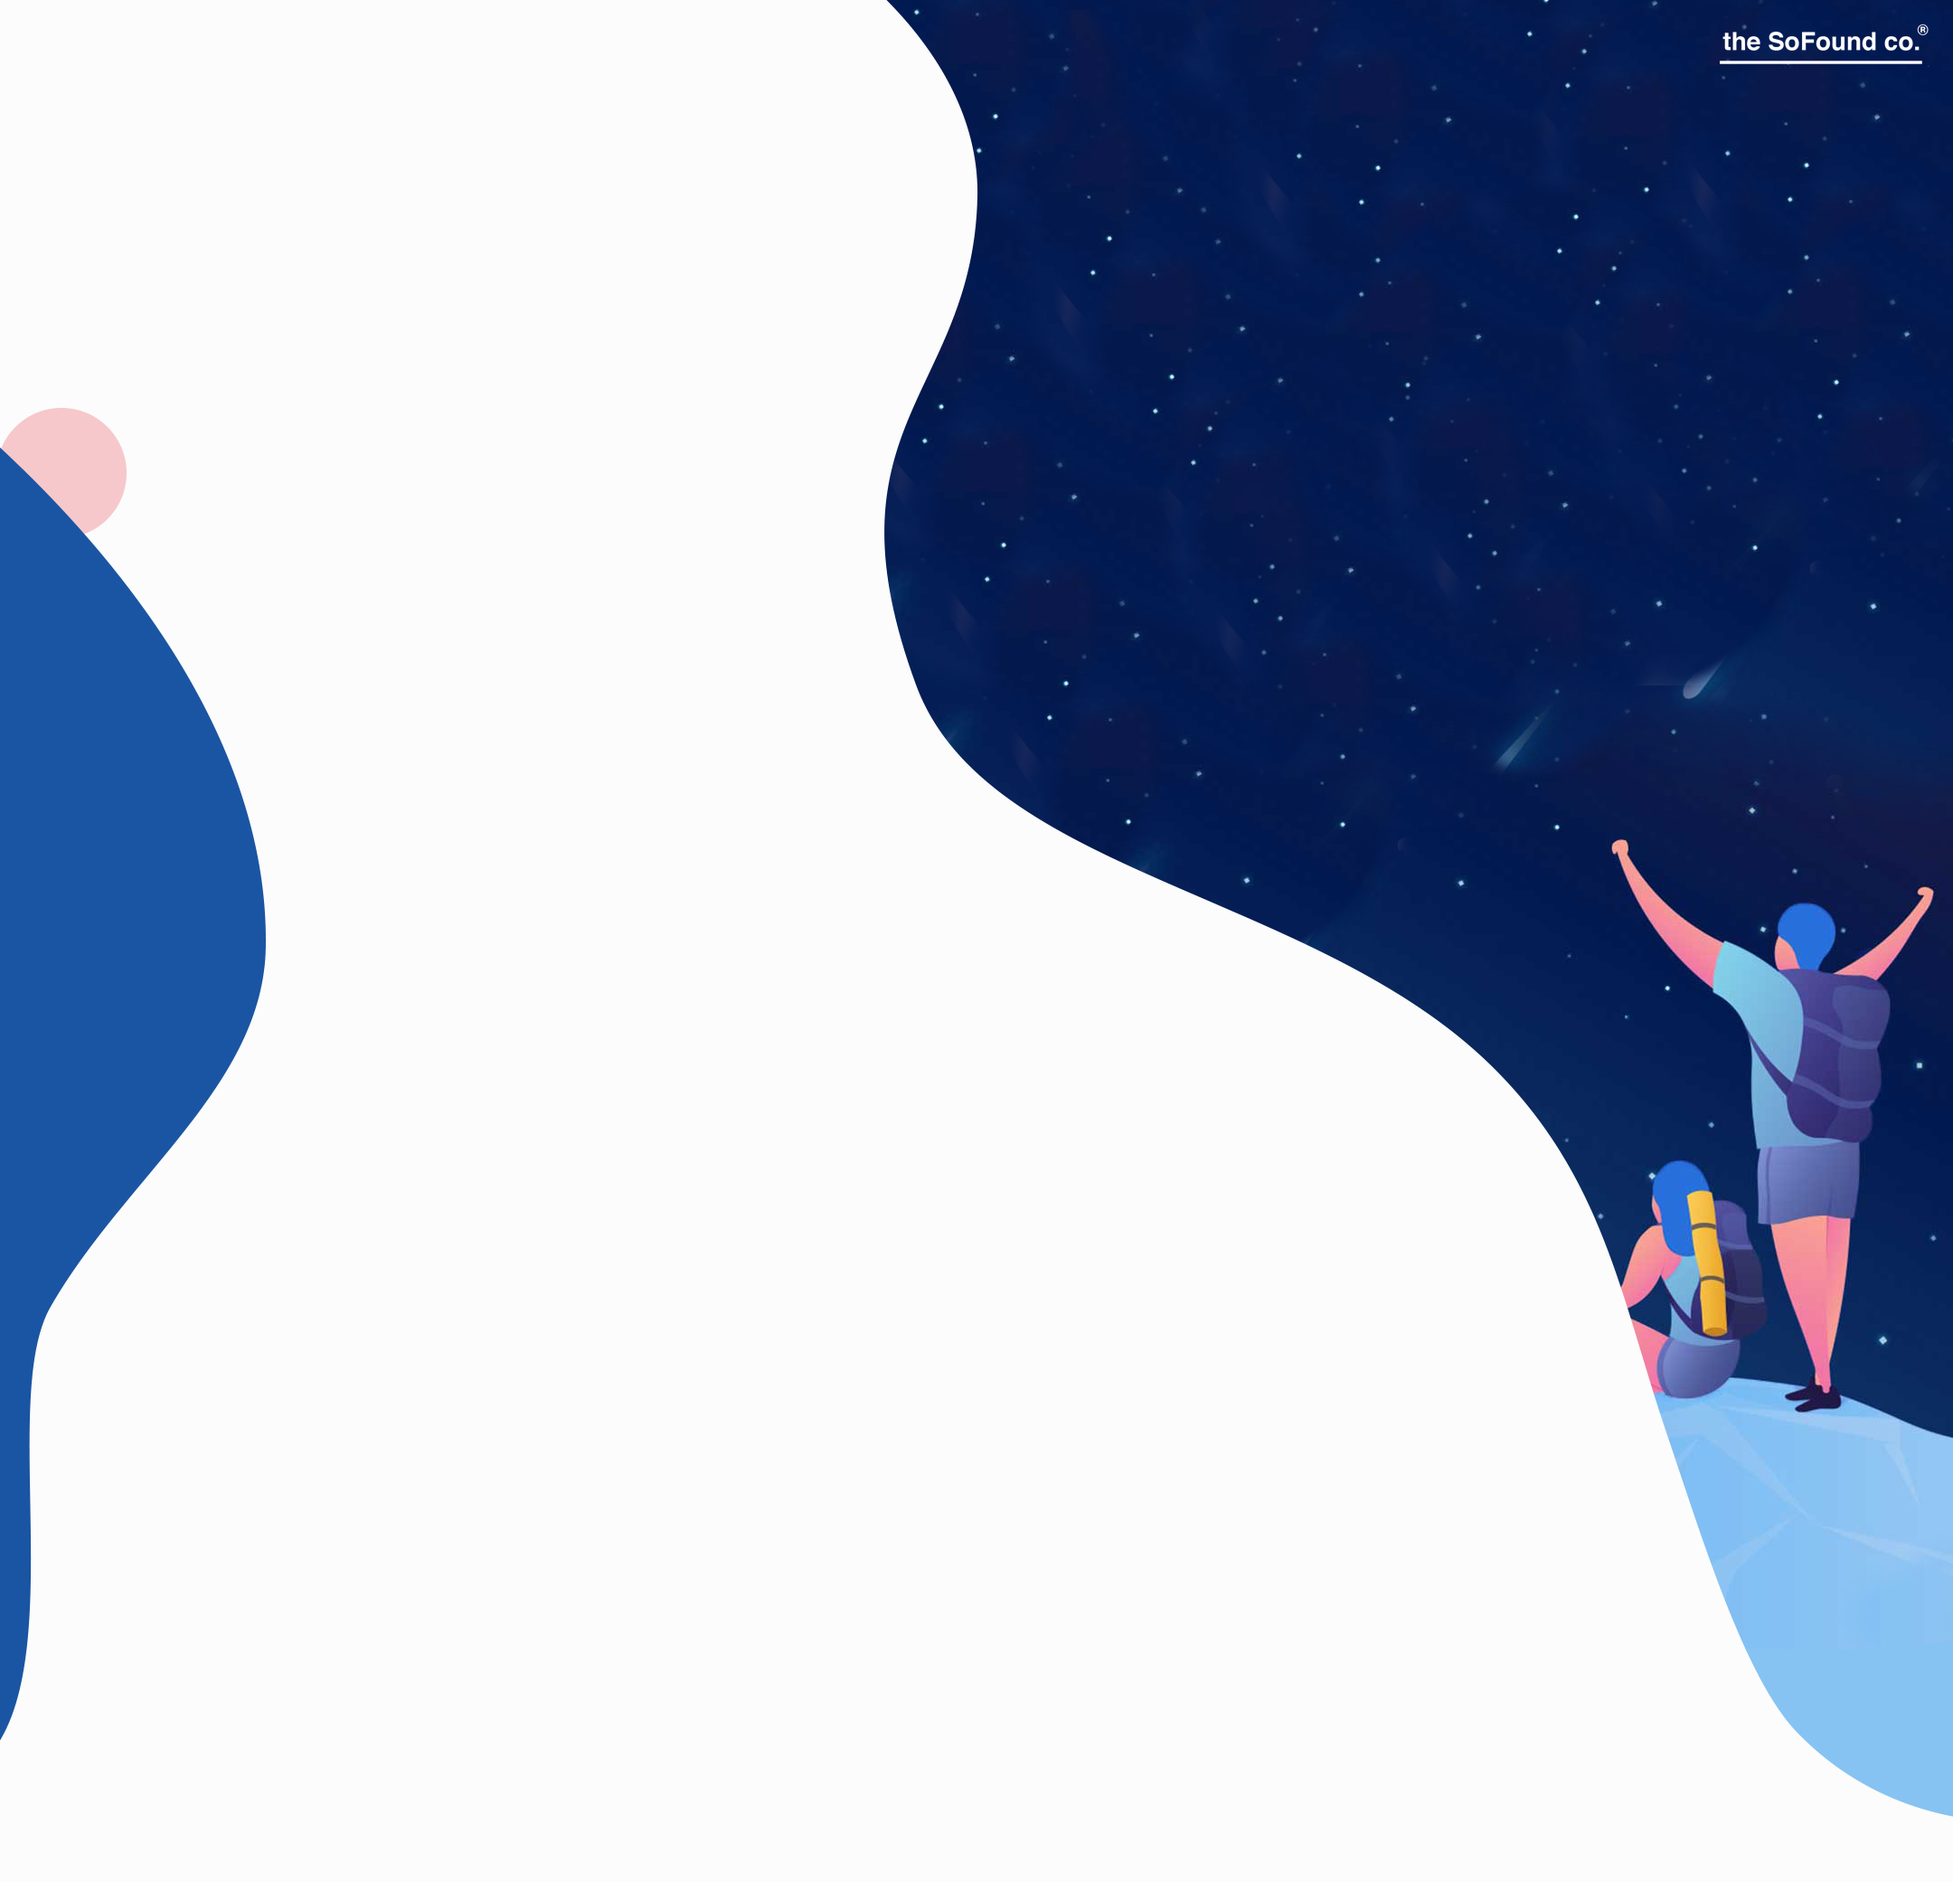
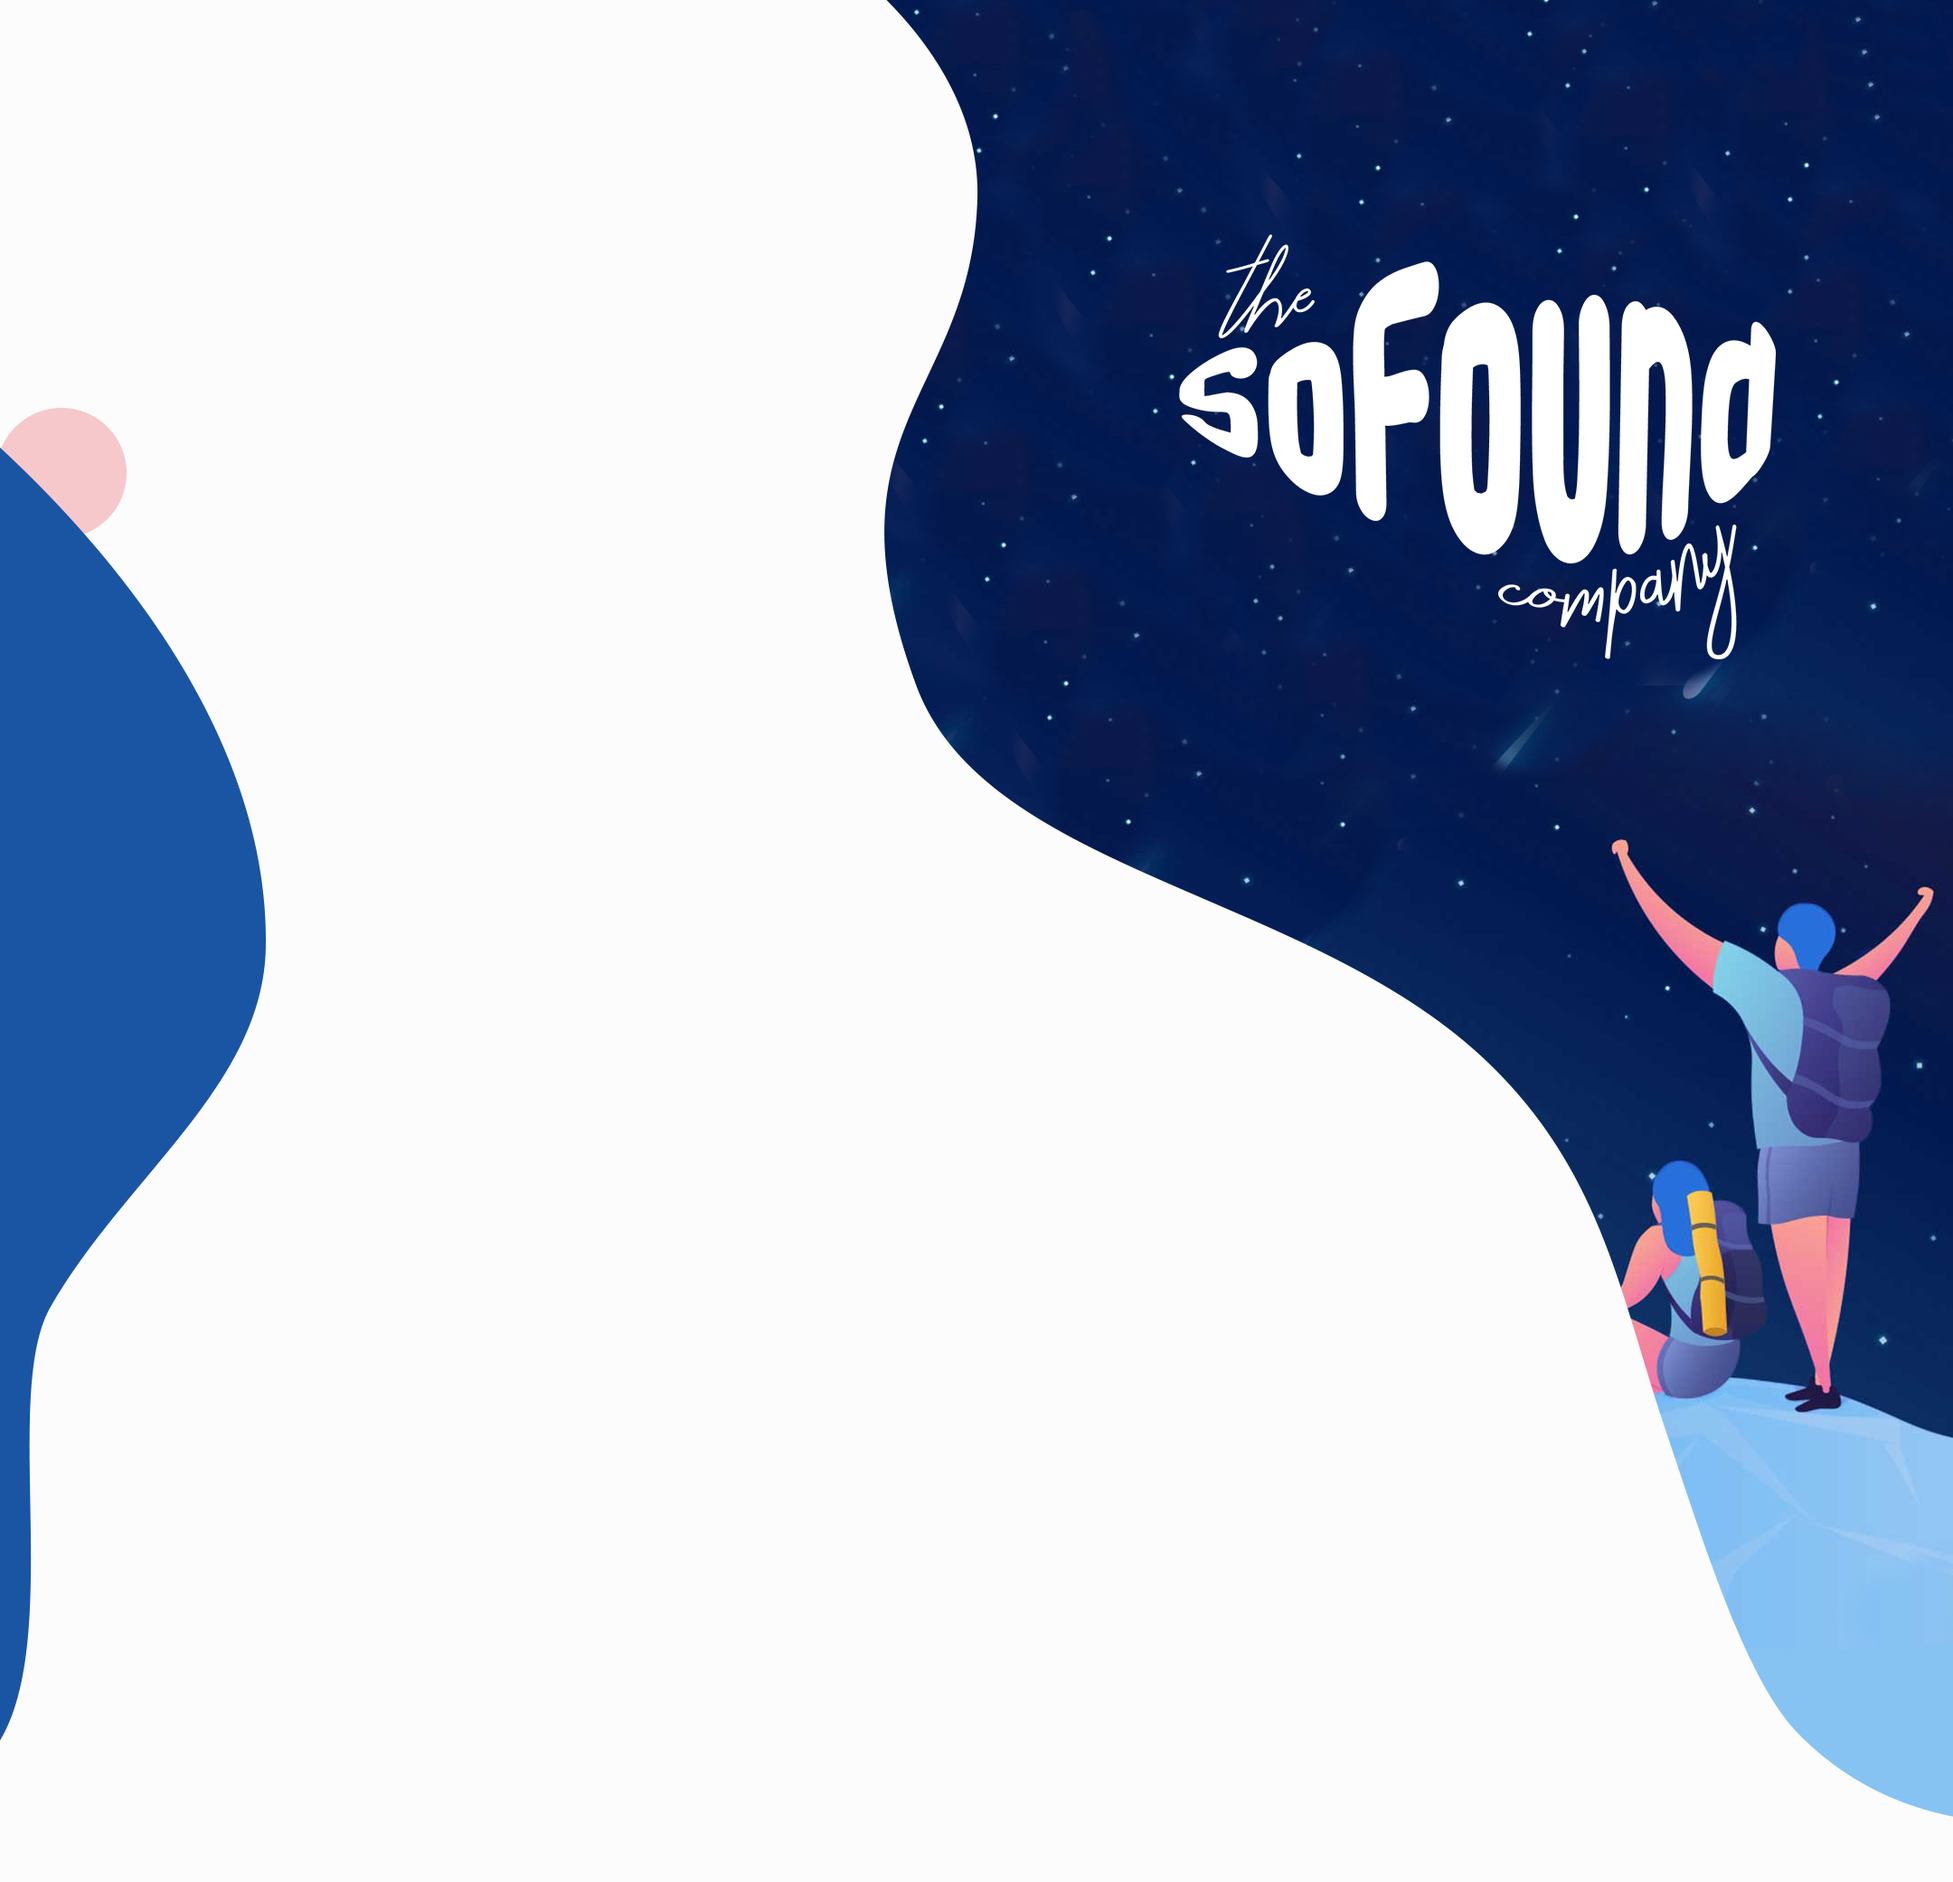
Updated mobile view

Changed region(s): [[0.5894, 0.1249, 0.9306, 0.3436], [0.8685, 0.0, 0.9926, 0.0312]]

diff --git a/index.html b/index.html
@@ -146,7 +146,7 @@
               </ul>
             </div>
           </nav>
-          <div class="col-6 icon_image">
+          <div class="col-6 icon_image d-none d-sm-block ">
             <a href="index.html"><img src="assets/images/white_icon.png" class="logo"  alt=""></a>
 
           </div>

diff --git a/assets/css/style.css b/assets/css/style.css
@@ -286,8 +286,8 @@ html {
 
 .icon_image{
   text-align: right;
-  margin-left: 47%;
-  margin-top: -6%;
+  margin-left: 46%;
+  margin-top: -5%;
   margin-bottom: -10%;
 }
 .dropdown-services-2:hover{
